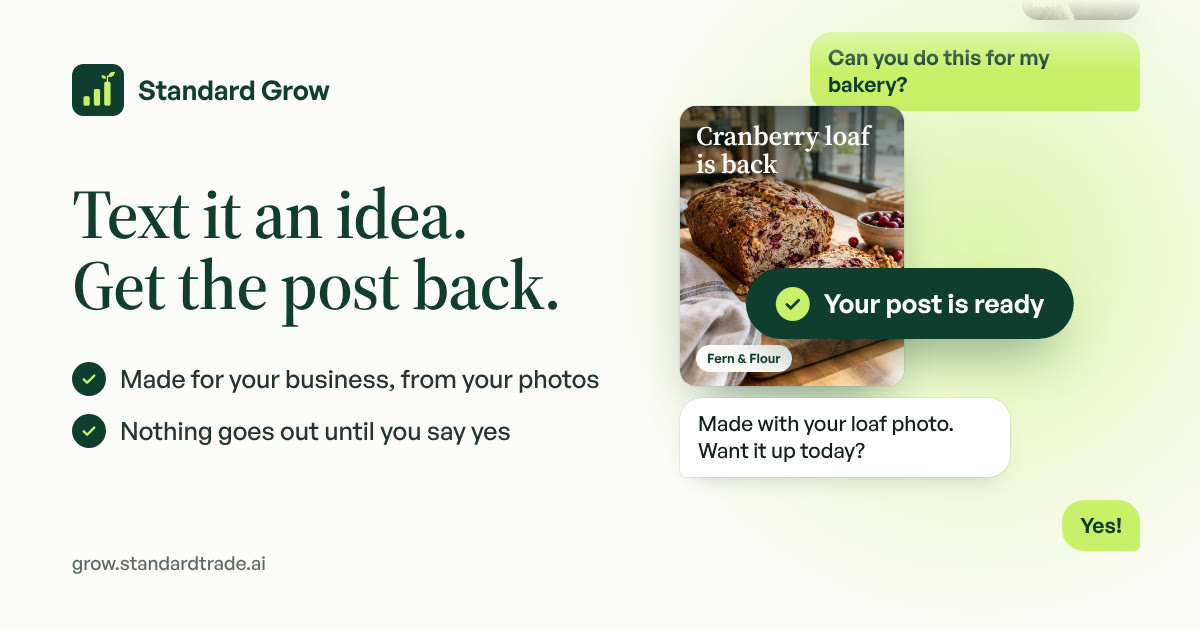
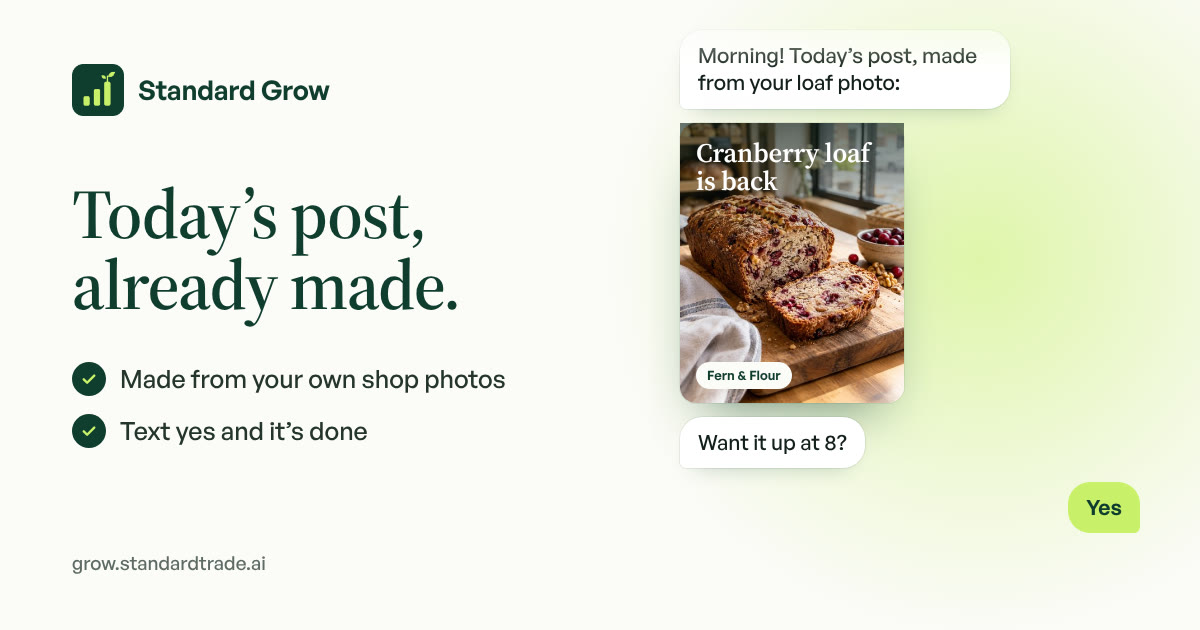
Site preview still and alt text match the new Grow video
Claude-Session: https://claude.ai/code/session_014skYkyLYf6qKPu9g555ALu

diff --git a/relay/public/index.html b/relay/public/index.html
@@ -12,7 +12,7 @@
 <meta property="og:image:type" content="image/jpeg">
 <meta property="og:image:width" content="1200">
 <meta property="og:image:height" content="630">
-<meta property="og:image:alt" content="Text Standard Grow an idea and get the finished post back">
+<meta property="og:image:alt" content="Standard Grow texts a business owner today’s post, already made, and they reply yes">
 <!-- The video lives on the Grow gateway: it answers the byte-range requests iMessage needs to play it, and static assets here do not. -->
 <meta property="og:video" content="https://connect.grow.standardtrade.ai/link/grow.mp4">
 <meta property="og:video:secure_url" content="https://connect.grow.standardtrade.ai/link/grow.mp4">

diff --git a/relay/public/join.html b/relay/public/join.html
@@ -12,7 +12,7 @@
 <meta property="og:image:type" content="image/jpeg">
 <meta property="og:image:width" content="1200">
 <meta property="og:image:height" content="630">
-<meta property="og:image:alt" content="Text Standard Grow an idea and get the finished post back">
+<meta property="og:image:alt" content="Standard Grow texts a business owner today’s post, already made, and they reply yes">
 <!-- The video lives on the Grow gateway: it answers the byte-range requests iMessage needs to play it, and static assets here do not. -->
 <meta property="og:video" content="https://connect.grow.standardtrade.ai/link/grow.mp4">
 <meta property="og:video:secure_url" content="https://connect.grow.standardtrade.ai/link/grow.mp4">
